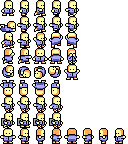
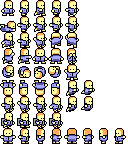
Breaking blocks with spinning & head; swimming animation

Changed region(s): [[0.5, 0.5556, 0.75, 0.7778]]

diff --git a/src/player.ts b/src/player.ts
@@ -54,6 +54,7 @@ export class Player extends CollisionObject {
     private spinning : boolean;
     private spinCount : number;
     private canSpin : boolean;
+    private spinHitbox : Vector2;
 
     private invulnerabilityTimer : number;
     private knockbackTimer : number;
@@ -121,6 +122,7 @@ export class Player extends CollisionObject {
         this.spinCount = 0;
         this.spinning = false;
         this.canSpin = false;
+        this.spinHitbox = new Vector2(20, 4);
 
         this.downAttackWaitTimer = 0;
         this.downAttacking = false;
@@ -384,7 +386,8 @@ export class Player extends CollisionObject {
             this.jumpReleased = true;
         }
 
-        this.flapping = !this.canJump &&
+        this.flapping = !this.touchWater &&
+            !this.canJump &&
             !this.spinning &&
             this.progress.getBooleanProperty("item5") &&
             this.jumpReleased &&
@@ -402,6 +405,8 @@ export class Player extends CollisionObject {
 
 
     private spin(event : CoreEvent) : boolean {
+
+        if (this.climbing) return false;
 
         let s = event.input.getAction("fire3");
         if (this.spinning) {
@@ -490,6 +495,11 @@ export class Player extends CollisionObject {
             this.target.x *= SWIM_SPEED_REDUCTION_X;
             this.target.y *= SWIM_SPEED_REDUCTION_Y;
             this.friction.y *= SWIM_SPEED_REDUCTION_Y;
+
+            if (this.speed.y > this.target.y + EPS) {
+
+                this.speed.y = this.target.y;
+            }
         }
     }
 
@@ -505,6 +515,7 @@ export class Player extends CollisionObject {
         const SPIN_SPEED = 2;
         const SPIN_MAX = 2;
         const SYMBOL_SPEED = 16;
+        const SWIM_SPEED = 8;
 
         let animSpeed : number;
         let frame : number;
@@ -567,6 +578,21 @@ export class Player extends CollisionObject {
 
             if (Math.abs(this.speed.y) > EPS)
                 this.spr.animate(2, 3, 4, CLIMB_SPEED, event.step);
+
+            return;
+        }
+
+        if (this.touchWater) {
+
+            row = this.jumpTimer > 0 ? 6 : 5;
+
+            if (this.jumpTimer > 0 || Math.abs(this.target.x) > EPS ||
+                (this.jumpTimer <= 0 && this.spr.getRow() == 6) ||
+                this.spr.getRow() < 5 ||
+                this.spr.getRow() > 6) {
+
+                this.spr.animate(row, 4, 5, SWIM_SPEED, event.step);
+            }
 
             return;
         }
@@ -922,10 +948,36 @@ export class Player extends CollisionObject {
         level : number, event : CoreEvent) : boolean {
 
         const Y_OFF = -4;
+        const HEAD_TOUCH_HEIGHT = 8;
 
         y += Y_OFF;
 
-        if (!this.downAttacking || this.speed.y <= 0 || level == 1)
+        if (level == 1)
+            return false;
+
+        if (this.spinning &&
+            this.progress.getBooleanProperty("item8")) {
+
+            return boxOverlay(this.pos, new Vector2(0, -this.spinHitbox.y/2), 
+                this.spinHitbox, x, y, w, h);
+        }
+
+        if (this.speed.y < 0 &&
+            this.progress.getBooleanProperty("item10")) {
+
+            if (boxOverlay(this.pos, 
+                new Vector2(0, -this.collisionBox.y/2), 
+                new Vector2(this.collisionBox.x, HEAD_TOUCH_HEIGHT), 
+                x, y, w, h)) {
+
+                this.speed.y = 0;
+                this.jumpTimer = 0;
+
+                return true;
+            }
+        }
+
+        if (!this.downAttacking || this.speed.y <= 0)
             return false;
 
         return boxOverlay(this.pos, this.center, this.collisionBox, x, y, w, h);
@@ -987,7 +1039,7 @@ export class Player extends CollisionObject {
     public waterCollision(x : number, y : number, w : number, h : number, 
         top : boolean, event : CoreEvent) : boolean {
 
-        const UP_SPEED = -0.5;
+        const UP_SPEED = -0.25;
 
         if (this.inside) return false;
 
@@ -998,6 +1050,11 @@ export class Player extends CollisionObject {
             this.touchWater = true;
             this.canThrow = true;
             this.canSpin = true;
+            this.flapping = false;
+            this.doubleJump = false;
+
+            this.downAttacking = false;
+            this.downAttackWaitTimer = 0;
 
             if (!top && !this.progress.getBooleanProperty("item7")) {
 

diff --git a/src/main.ts b/src/main.ts
@@ -11,7 +11,7 @@ window.onload = () => (new Core(160, 144))
             .addAction("fire1", "KeyZ", null, 2)
             .addAction("fire2", "KeyX", null, 0)
             .addAction("fire3", "KeyC", null, 1)
-            .addAction("fire4", "KeyC", null, 3)
+            .addAction("fire4", "KeyS", null, 3)
             .addAction("select", "Space", null, 0)
             .addAction("start", "Enter", null, 9, 7);
 

diff --git a/src/stage.ts b/src/stage.ts
@@ -628,7 +628,7 @@ export class Stage {
         }
 
         let y = this.waterLevel*16 + WATER_SURFACE_OFFSET;
-        let offset = 16 - WATER_SURFACE_OFFSET;
+        let offset = 16;
 
         o.waterCollision(0, y, this.width*16, offset, true, event);
         o.waterCollision(0, y+offset, this.width*16, this.height*16 - y - offset, false, event);

diff --git a/src/projectile.ts b/src/projectile.ts
@@ -21,7 +21,7 @@ export class Projectile extends CollisionObject {
         this.friendly = false;
         this.spr = new Sprite(16, 16);
 
-        this.hitbox = new Vector2(8, 8);
+        this.hitbox = new Vector2(10, 10);
         this.collisionBox = new Vector2(2, 2);
 
         this.friction = new Vector2(0.1, 0.1);

diff --git a/src/messagebox.ts b/src/messagebox.ts
@@ -7,8 +7,8 @@ export const drawBox = (canvas : Canvas, x : number, y : number, w : number, h :
 
     const BOX_OFFSET = 2;
     const BOX_COLORS = [
-        [170, 85, 0],
-        [255, 170, 85],
+        [85, 85, 170],
+        [170, 170, 255],
         [255, 255, 255],
         [0, 0, 0]
     ];
